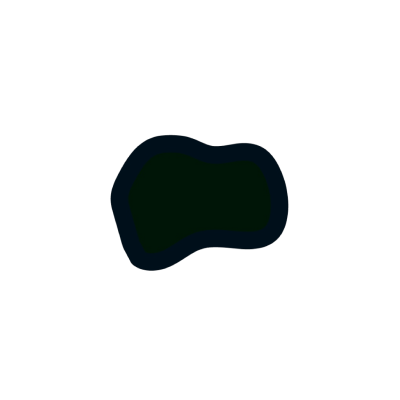
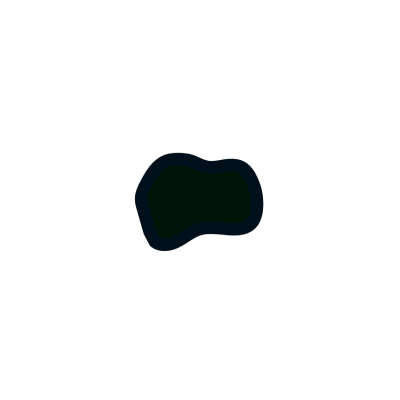
refactor(proj): decrease lake size

Changed region(s): [[0.27, 0.33, 0.72, 0.69]]

diff --git a/project/MyScene.js b/project/MyScene.js
@@ -14,8 +14,8 @@ import { MyForest } from './objects/forest/MyForest.js';
 import { MyTerrain } from './objects/MyTerrain.js';
 
 /**
- * MyScene
- * @constructor
+ * A scene.
+ * @extends CGFscene
  */
 export class MyScene extends CGFscene {
     constructor() {
@@ -171,13 +171,13 @@ export class MyScene extends CGFscene {
             // left
             new MyForest({
                 scene: this,
-                width: 370,
-                depth: 120,
+                width: 280,
+                depth: 90,
                 rows: 6,
-                columns: 17,
-                maxRows: 12,
-                maxColumns: 37,
-                position: [0, 0, 60 + 0.7 * this.terrain.lake.depth],
+                columns: 14,
+                maxRows: 9,
+                maxColumns: 28,
+                position: [0, 0, 50 + 0.7 * this.terrain.lake.depth],
                 colors: {
                     crown: MyColor.hex('#688f4e'),
                     trunk: MyColor.hex('#6e4300'),
@@ -190,12 +190,12 @@ export class MyScene extends CGFscene {
             // right
             new MyForest({
                 scene: this,
-                width: 400,
-                depth: 100,
-                rows: 5,
-                columns: 10,
-                maxRows: 10,
-                maxColumns: 40,
+                width: 280,
+                depth: 90,
+                rows: 6,
+                columns: 14,
+                maxRows: 9,
+                maxColumns: 28,
                 position: [0, 0, -50 - 0.7 * this.terrain.lake.depth],
                 colors: {
                     crown: MyColor.hex('#688f4e'),

diff --git a/project/objects/solids/MyCylinder.js b/project/objects/solids/MyCylinder.js
@@ -1,13 +1,22 @@
 import { MyObject } from '../MyObject.js';
 
 /**
- * A cylinder.
+ * A cylinder of different sized bases.
  */
 export class MyCylinder extends MyObject {
     /**
      * Initializes the cylinder.
-     * @param { MyScene } scene the scene the object will be displayed in
-     * @param { Object } config the object configuration
+     * @param { Object } config - the cylinder configuration
+     * @param { CGFscene } config.scene - the scene the object will be displayed in
+     * @param { number } config.radius - the radius of the bases of the cylinder
+     * @param { number } config.topRadius - the radius of the top base of the cylinder
+     * @param { number } config.bottomRadius - the radius of the bottom base of the cylinder
+     * @param { number } config.height - the height of the cylinder
+     * @param { number } config.slices - the number of divisions around the Y-axis
+     * @param { number } config.stacks - the number of divisions along the Y-axis
+     * @param { boolean } config.inverted - indicates if the cylinder should be inverted
+     * @param { Object } config.material - the material to be applied to the cylinder
+     * @param { string } config.texture - the texture to be applied to the cylinder
      */
     constructor({
         scene,

diff --git a/project/objects/helicopter/MyHeli.js b/project/objects/helicopter/MyHeli.js
@@ -30,13 +30,10 @@ export class MyHeli extends MyObject {
 
         /** The helicopter's position */
         this.position = position;
-
         /** The helicopter's velocity (vector) */
         this.velocity = velocity;
-
         /** The helicopter's acceleration */
         this.acceleration = MyHeli.DEFAULT_ACCELERATION;
-
         /** The helicopter's turn speed */
         this.turnSpeed = MyHeli.DEFAULT_TURN_SPEED;
 
@@ -64,7 +61,6 @@ export class MyHeli extends MyObject {
 
         /** The scale with which the water gush is displayed */
         this.gushScale = 0;
-
         /** The Y-coordinate of the water gush */
         this.gushY = 0;
 

diff --git a/project/objects/MyTerrain.js b/project/objects/MyTerrain.js
@@ -29,8 +29,8 @@ export class MyTerrain extends MyRectangle {
      */
     get lake() {
         return {
-            width: 0.44 * this.width,
-            depth: 0.26 * this.height,
+            width: 0.31 * this.width,
+            depth: 0.18 * this.height,
         };
     }
 

diff --git a/project/index.html b/project/index.html
@@ -2,7 +2,7 @@
 <html>
 <head lang="en">
     <meta charset="UTF-8">
-    <title>CGFexample</title>    
+    <title>T04-G06 2024/25</title>    
     <link rel="icon" href="data:,">
 
 <style>

diff --git a/project/objects/solids/MyCone.js b/project/objects/solids/MyCone.js
@@ -18,7 +18,7 @@ export class MyCone extends MyCylinder {
      */
     constructor({
         scene,
-        radius,
+        radius = 1,
         height,
         slices,
         stacks,
